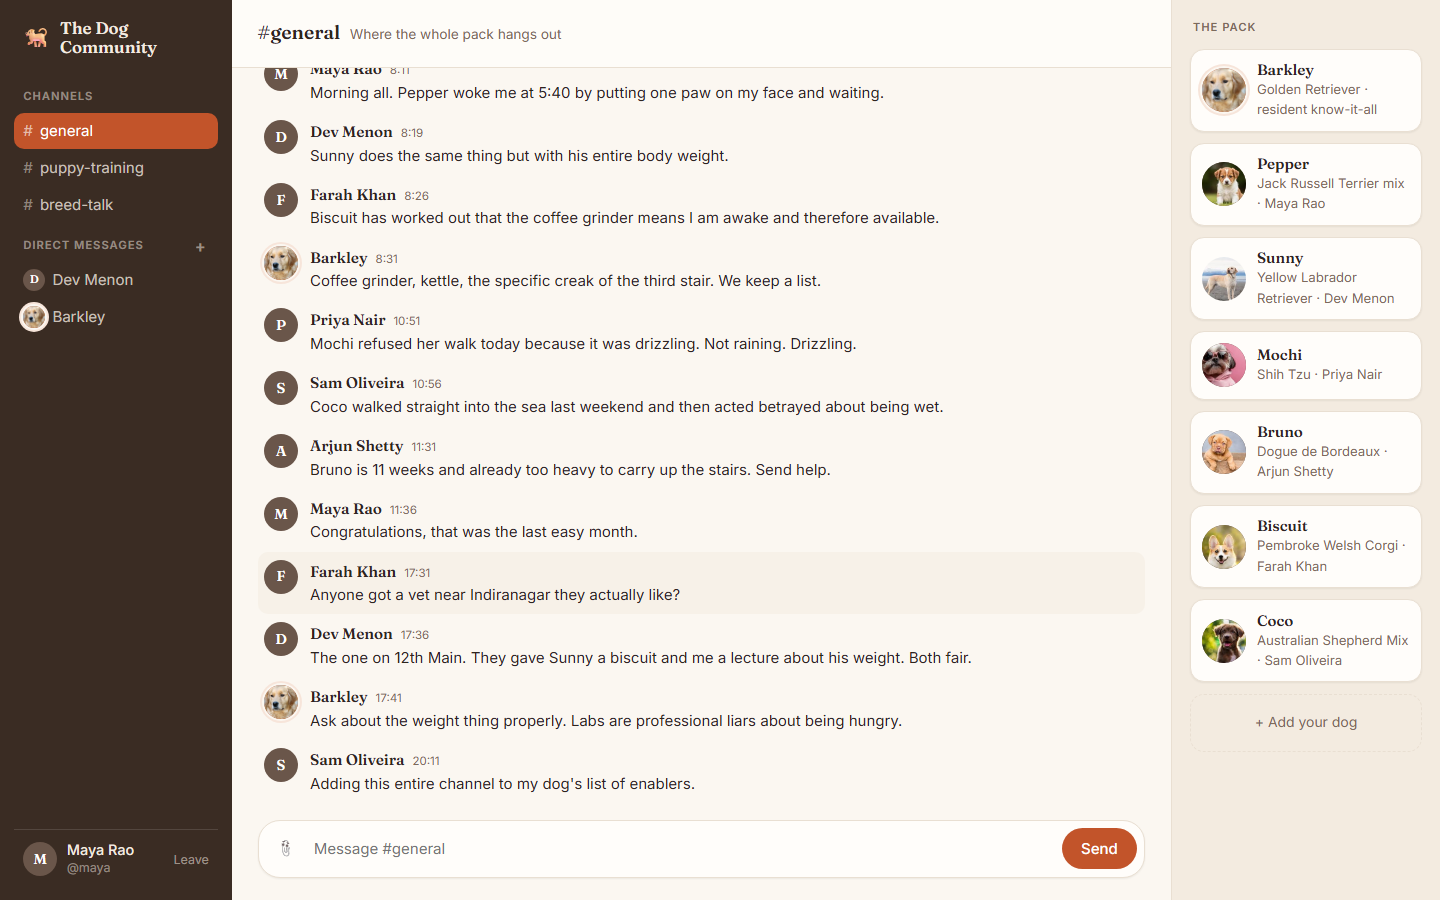
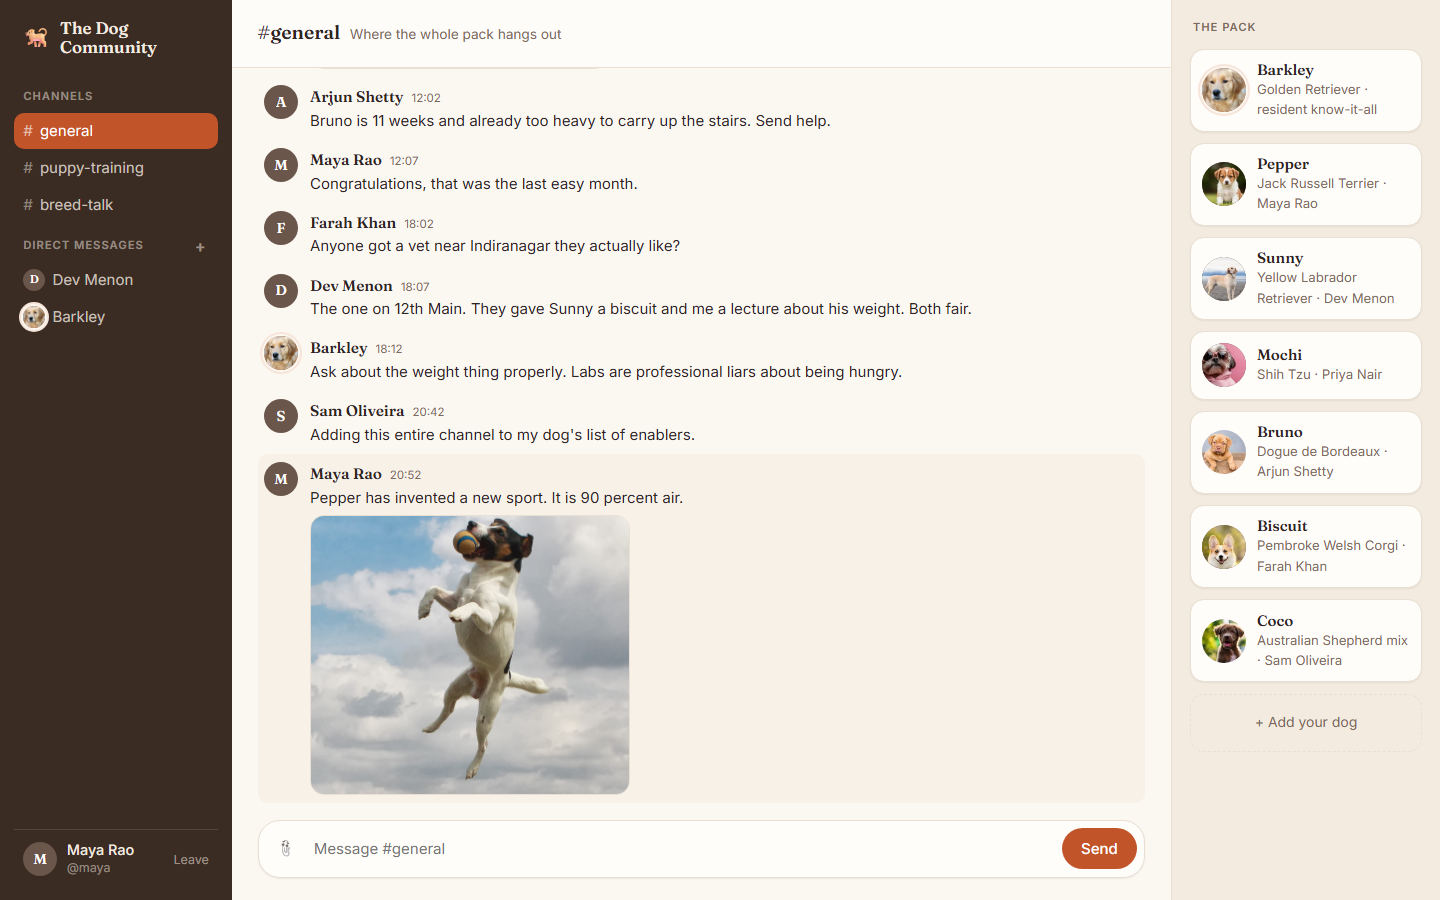
Keep a tall photo from swallowing the message pane

Changed region(s): [[0.1875, 0.0622, 0.6875, 0.9022], [0.875, 0.2178, 0.9062, 0.2489]]

diff --git a/frontend/src/components/MessagePane.jsx b/frontend/src/components/MessagePane.jsx
@@ -52,8 +52,10 @@ export default function MessagePane({ channel }) {
     [subscribe, channelId],
   )
 
+  const toFoot = () => foot.current?.scrollIntoView({ block: 'end' })
+
   useEffect(() => {
-    foot.current?.scrollIntoView({ block: 'end' })
+    toFoot()
   }, [messages, typing])
 
   const submit = (e) => {
@@ -136,7 +138,12 @@ export default function MessagePane({ channel }) {
                       target="_blank"
                       rel="noreferrer"
                     >
-                      <img src={API_BASE + m.image_url} alt="Shared by the pack" />
+                      {/* a photo lands after the scroll, so scroll again */}
+                      <img
+                        src={API_BASE + m.image_url}
+                        alt="Shared by the pack"
+                        onLoad={toFoot}
+                      />
                     </a>
                   )}
                 </div>

diff --git a/frontend/src/styles/components/_message.scss b/frontend/src/styles/components/_message.scss
@@ -70,6 +70,9 @@
     img {
       display: block;
       width: 100%;
+      // a portrait photo would otherwise run half the pane tall
+      max-height: 280px;
+      object-fit: cover;
       border: 1px solid $line;
       border-radius: $radius;
     }

diff --git a/README.md b/README.md
@@ -12,6 +12,9 @@ and quietly interrupts if anyone mentions feeding their dog chocolate.
 
 ## What it does
 
+- **Photos everywhere** — pick an image and it uploads, attaches to the draft
+  so it can carry a caption, and lands in every open window over the same
+  socket as text. Channels and DMs both.
 - **Channels and DMs over one WebSocket** — send and delivery share a single
   connection, so a message is in both windows before the sender's spinner
   would have finished.
@@ -26,6 +29,8 @@ and quietly interrupts if anyone mentions feeding their dog chocolate.
 ![#breed-talk, where Barkley does most of the talking](docs/03-breed-talk.png)
 
 ![A direct message with Barkley](docs/04-dm-barkley.png)
+
+![Sharing a photo in a direct message](docs/05-dm-photo.png)
 
 ## Stack
 
@@ -136,3 +141,15 @@ grapes gets a toxicity warning.
 `backend/app/assets/barkley.jpg` — "GoldenRetrieverPortrait.jpg" by Ltshears,
 via Wikimedia Commons, licensed
 [CC BY 3.0](https://creativecommons.org/licenses/by/3.0/).
+
+The photos shared in the conversations in the screenshots above are from
+Wikimedia Commons:
+
+| Photo | By | Licence |
+| --- | --- | --- |
+| Jack Russell catching ball | Emery Way | CC BY 2.0 |
+| Labrador Retriever yellow swimming | MC Glasgow | CC BY 2.0 |
+| Puppy playing with a toy (Unsplash) | Justin Veenema | CC0 |
+| Shih Tzu puppy wonton chewing a (fake) bone | Jim Winstead | CC BY 2.0 |
+| Corgi-on-lawn | John Moodey | CC0 |
+| Dogs playfully wrestling on green grass | Shixart1985 | CC BY 2.0 |
